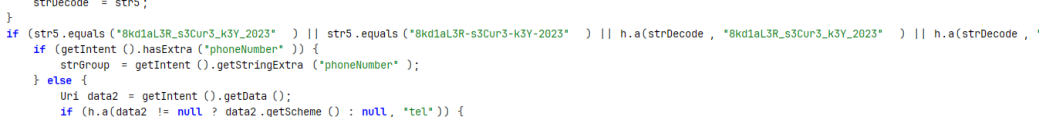
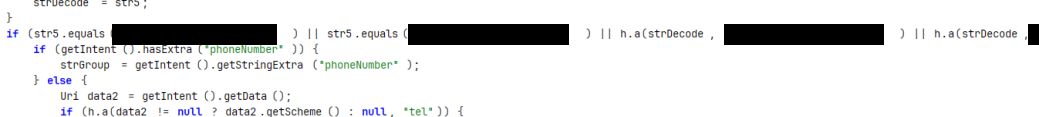
Redact challenge hardcoded secrets in AndroPseudoProtect and AndroDialer writeups

diff --git a/_posts/2026-11-02-androdialer-will-call-anyone-you-like.md b/_posts/2026-11-02-androdialer-will-call-anyone-you-like.md
@@ -51,7 +51,7 @@ I come across "com.eightksec.androdialer.CallHandlerServiceActivity", which is e
 ![](/assets/images/androdialer-confused-deputy/8ksec_ch3.pdf-0001-16.png)
 
 
-- I find that CallHandlerServiceActivity OnCreate function tries to read "enterprise_auth_token" from the incoming intent, whether it be from another app or web uri etc. The value of the token however is surprisingly hard-coded "8kd1aL3R-s3Cur3-k3Y-2023". 
+- I find that CallHandlerServiceActivity OnCreate function tries to read "enterprise_auth_token" from the incoming intent, whether it be from another app or web uri etc. The value of the token however is surprisingly hard-coded "[REDACTED]". 
 
 
 ![](/assets/images/androdialer-confused-deputy/8ksec_ch3.pdf-0002-01.png)
